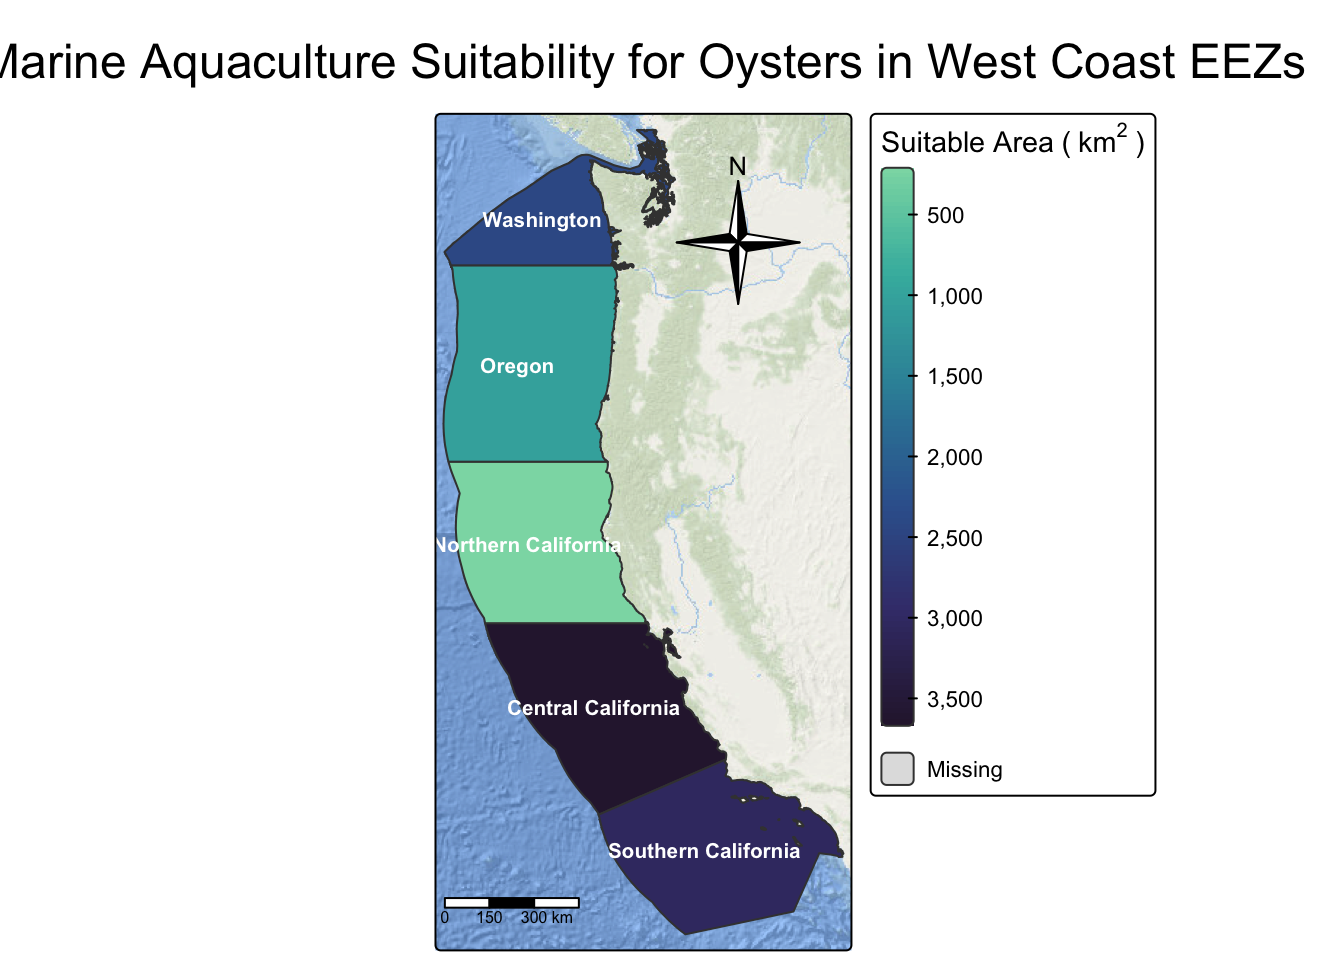
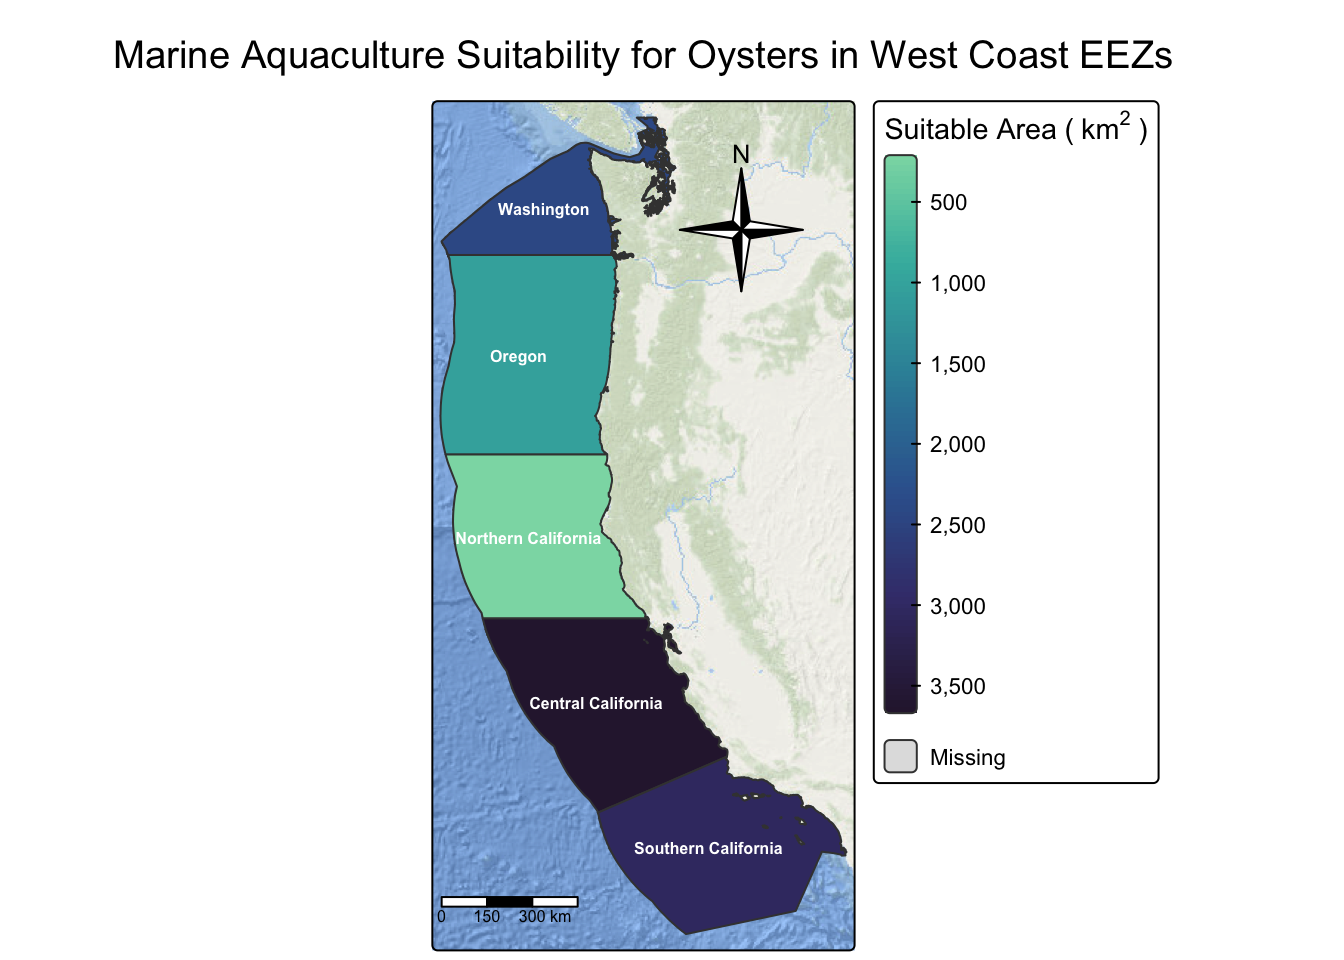
Finished adding and formatting aquaculture blog post.

diff --git a/docs/posts/aquaculture-post/blog_post_aquaculture_suitability_analysis.html b/docs/posts/aquaculture-post/blog_post_aquaculture_suitability_analysis.html
@@ -460,14 +460,14 @@ max value   :    1 </code></pre>
 <span id="cb13-10"><a href="#cb13-10" aria-hidden="true" tabindex="-1"></a>  ) <span class="sc">+</span>  </span>
 <span id="cb13-11"><a href="#cb13-11" aria-hidden="true" tabindex="-1"></a>  </span>
 <span id="cb13-12"><a href="#cb13-12" aria-hidden="true" tabindex="-1"></a>  <span class="fu">tm_text</span>(<span class="st">"rgn"</span>, <span class="co"># Label by region</span></span>
-<span id="cb13-13"><a href="#cb13-13" aria-hidden="true" tabindex="-1"></a>          <span class="at">size =</span> .<span class="dv">65</span>, <span class="co"># Adjust size</span></span>
+<span id="cb13-13"><a href="#cb13-13" aria-hidden="true" tabindex="-1"></a>          <span class="at">size =</span> .<span class="dv">5</span>, <span class="co"># Adjust size</span></span>
 <span id="cb13-14"><a href="#cb13-14" aria-hidden="true" tabindex="-1"></a>          <span class="at">col =</span> <span class="st">"white"</span>, <span class="co"># Adjust text color</span></span>
 <span id="cb13-15"><a href="#cb13-15" aria-hidden="true" tabindex="-1"></a>          <span class="at">fontface =</span> <span class="st">"bold"</span>,  <span class="co"># Labels are bolded</span></span>
 <span id="cb13-16"><a href="#cb13-16" aria-hidden="true" tabindex="-1"></a>          <span class="at">xmod =</span> <span class="sc">-</span>.<span class="dv">5</span>) <span class="sc">+</span> <span class="co"># Adjust .5 from the left</span></span>
 <span id="cb13-17"><a href="#cb13-17" aria-hidden="true" tabindex="-1"></a>  </span>
 <span id="cb13-18"><a href="#cb13-18" aria-hidden="true" tabindex="-1"></a>  <span class="fu">tm_layout</span>( <span class="co"># Center title outside bounding box</span></span>
 <span id="cb13-19"><a href="#cb13-19" aria-hidden="true" tabindex="-1"></a>    <span class="at">main.title =</span> <span class="st">"Marine Aquaculture Suitability for Oysters in West Coast EEZs"</span>,</span>
-<span id="cb13-20"><a href="#cb13-20" aria-hidden="true" tabindex="-1"></a>     <span class="at">main.title.size =</span> <span class="fl">1.5</span>, <span class="co"># Adjust title size</span></span>
+<span id="cb13-20"><a href="#cb13-20" aria-hidden="true" tabindex="-1"></a>     <span class="at">main.title.size =</span> <span class="fl">1.2</span>, <span class="co"># Adjust title size</span></span>
 <span id="cb13-21"><a href="#cb13-21" aria-hidden="true" tabindex="-1"></a>    <span class="at">legend.outside =</span> <span class="cn">TRUE</span>, <span class="co"># Place legend outside map frame</span></span>
 <span id="cb13-22"><a href="#cb13-22" aria-hidden="true" tabindex="-1"></a>    <span class="at">legend.outside.position =</span> <span class="st">"right"</span>, <span class="co"># Place legend to right</span></span>
 <span id="cb13-23"><a href="#cb13-23" aria-hidden="true" tabindex="-1"></a>    <span class="at">component.autoscale =</span> <span class="cn">FALSE</span>, <span class="co"># Disable autoscaling for title</span></span>
@@ -747,7 +747,7 @@ max value   :    1 </code></pre>
 <span id="cb17-103"><a href="#cb17-103" aria-hidden="true" tabindex="-1"></a>      <span class="st">"Suitable Area"</span><span class="sc">~</span><span class="st">"("</span><span class="sc">~</span> km<span class="sc">^</span><span class="dv">2</span><span class="sc">~</span><span class="st">")"</span>) <span class="co">#Rename legend title</span></span>
 <span id="cb17-104"><a href="#cb17-104" aria-hidden="true" tabindex="-1"></a>  ) <span class="sc">+</span>  </span>
 <span id="cb17-105"><a href="#cb17-105" aria-hidden="true" tabindex="-1"></a>  <span class="fu">tm_text</span>(<span class="st">"rgn"</span>, <span class="co"># Label by region</span></span>
-<span id="cb17-106"><a href="#cb17-106" aria-hidden="true" tabindex="-1"></a>          <span class="at">size =</span> .<span class="dv">65</span>, <span class="co"># Adjust size</span></span>
+<span id="cb17-106"><a href="#cb17-106" aria-hidden="true" tabindex="-1"></a>          <span class="at">size =</span> .<span class="dv">5</span>, <span class="co"># Adjust size</span></span>
 <span id="cb17-107"><a href="#cb17-107" aria-hidden="true" tabindex="-1"></a>          <span class="at">col =</span> <span class="st">"white"</span>, <span class="co"># Adjust text color</span></span>
 <span id="cb17-108"><a href="#cb17-108" aria-hidden="true" tabindex="-1"></a>          <span class="at">fontface =</span> <span class="st">"bold"</span>,  <span class="co"># Labels are bolded</span></span>
 <span id="cb17-109"><a href="#cb17-109" aria-hidden="true" tabindex="-1"></a>          <span class="at">xmod =</span> <span class="sc">-</span>.<span class="dv">5</span>) <span class="sc">+</span> <span class="co"># Adjust .5 from the left</span></span>
@@ -756,7 +756,7 @@ max value   :    1 </code></pre>
 <span id="cb17-112"><a href="#cb17-112" aria-hidden="true" tabindex="-1"></a>    <span class="at">main.title =</span> <span class="fu">paste</span>(<span class="st">"Marine Aquaculture Suitability for"</span>,</span>
 <span id="cb17-113"><a href="#cb17-113" aria-hidden="true" tabindex="-1"></a>                        species_name, <span class="co"># Include species name in title</span></span>
 <span id="cb17-114"><a href="#cb17-114" aria-hidden="true" tabindex="-1"></a>                       <span class="st">"in West Coast EEZs"</span>),</span>
-<span id="cb17-115"><a href="#cb17-115" aria-hidden="true" tabindex="-1"></a>     <span class="at">main.title.size =</span> <span class="fl">1.5</span>, <span class="co"># Adjust title size</span></span>
+<span id="cb17-115"><a href="#cb17-115" aria-hidden="true" tabindex="-1"></a>     <span class="at">main.title.size =</span> <span class="fl">1.2</span>, <span class="co"># Adjust title size</span></span>
 <span id="cb17-116"><a href="#cb17-116" aria-hidden="true" tabindex="-1"></a>    <span class="at">legend.outside =</span> <span class="cn">TRUE</span>, <span class="co"># Place legend outside map frame</span></span>
 <span id="cb17-117"><a href="#cb17-117" aria-hidden="true" tabindex="-1"></a>    <span class="at">legend.outside.position =</span> <span class="st">"right"</span>, <span class="co"># Place legend to right</span></span>
 <span id="cb17-118"><a href="#cb17-118" aria-hidden="true" tabindex="-1"></a>    <span class="at">component.autoscale =</span> <span class="cn">FALSE</span>, <span class="co"># Disable autoscaling for title</span></span>
@@ -787,11 +787,14 @@ max value   :    1 </code></pre>
 <span id="cb18-5"><a href="#cb18-5" aria-hidden="true" tabindex="-1"></a>                                       <span class="at">max_depth =</span> <span class="dv">0</span>, </span>
 <span id="cb18-6"><a href="#cb18-6" aria-hidden="true" tabindex="-1"></a>                                       <span class="at">species_name =</span> <span class="st">"Red Abalone"</span>)</span>
 <span id="cb18-7"><a href="#cb18-7" aria-hidden="true" tabindex="-1"></a></span>
-<span id="cb18-8"><a href="#cb18-8" aria-hidden="true" tabindex="-1"></a><span class="co"># Save finalized map to figs</span></span>
-<span id="cb18-9"><a href="#cb18-9" aria-hidden="true" tabindex="-1"></a><span class="fu">tmap_save</span>(species_pref_map, <span class="at">filename =</span> <span class="st">"images/species_pref_map.png"</span>, <span class="at">width =</span> <span class="dv">8</span>, <span class="at">height =</span> <span class="dv">6</span>)</span></code><button title="Copy to Clipboard" class="code-copy-button"><i class="bi"></i></button></pre></div>
+<span id="cb18-8"><a href="#cb18-8" aria-hidden="true" tabindex="-1"></a><span class="co"># Print map </span></span>
+<span id="cb18-9"><a href="#cb18-9" aria-hidden="true" tabindex="-1"></a>species_pref_map</span></code><button title="Copy to Clipboard" class="code-copy-button"><i class="bi"></i></button></pre></div>
 </details>
+<div class="cell-output-display">
+<p><img src="blog_post_aquaculture_suitability_analysis_files/figure-html/unnamed-chunk-17-1.png" class="img-fluid" width="672"></p>
 </div>
-<p><img src="images/species_pref_map.png" class="img-fluid" width="1000"> <strong>Map 2. Finalized map of suitable aquaculture areas within West Coast EEZs for red abalone.</strong></p>
+</div>
+<p><strong>Map 2. Suitable aquaculture areas within West Coast EEZs for red abalone.</strong></p>
 </section>
 <section id="reflection" class="level2">
 <h2 class="anchored" data-anchor-id="reflection">Reflection</h2>

diff --git a/docs/post.html b/docs/post.html
@@ -236,7 +236,7 @@ Vedika Shirtekar
 </div>
 </a>
 </div>
-<div class="g-col-1" data-index="3" data-listing-date-sort="1765000800000" data-listing-file-modified-sort="1765594759085" data-listing-date-modified-sort="NaN" data-listing-reading-time-sort="24">
+<div class="g-col-1" data-index="3" data-listing-date-sort="1765000800000" data-listing-file-modified-sort="1765596007572" data-listing-date-modified-sort="NaN" data-listing-reading-time-sort="24">
 <a href="./posts/aquaculture-post/blog_post_aquaculture_suitability_analysis.html" class="quarto-grid-link">
 <div class="quarto-grid-item card h-100 card-left">
 <p class="card-img-top"><img src="posts/aquaculture-post/images/kelp_forest.png" style="height: 150px;"  class="thumbnail-image card-img"/></p>
